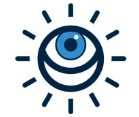
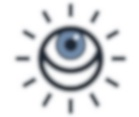
update button styling to be eyeball

diff --git a/src/components/GameStart.js b/src/components/GameStart.js
@@ -10,51 +10,33 @@ function GameStart(props) {
     textAlign: "center"
   }
   const colorPalette1Styles = {
-    width: 120,
-    height: 120,
-    display: "inline-block",
     backgroundColor: "#ccffff"
   }
   const colorPalette2Styles = {
-    width: 120,
-    height: 120,
-    display: "inline-block",
     backgroundColor: "#ffff66"
   }
   const colorPalette3Styles = {
-    width: 120,
-    height: 120,
-    display: "inline-block",
     backgroundColor: "#ff9966"
   }
   const colorPalette4Styles = {
-    width: 120,
-    height: 120,
-    display: "inline-block",
     backgroundColor: "#ff00ff"
   }
   const colorPalette5Styles = {
-    width: 120,
-    height: 120,
-    display: "inline-block",
     backgroundColor: "#0033cc"
   }
   const colorPalette6Styles = {
-    width: 120,
-    height: 120,
-    display: "inline-block",
     backgroundColor: "#66ff66"
   }
 
   return (
     <>
       <div style={divStyles}>
-        <div onClick={() => onInitGame1(1)} style={colorPalette1Styles}></div>
-        <div onClick={() => onInitGame1(2)} style={colorPalette2Styles}></div>
-        <div onClick={() => onInitGame1(3)} style={colorPalette3Styles}></div>
-        <div onClick={() => onInitGame1(4)} style={colorPalette4Styles}></div>
-        <div onClick={() => onInitGame1(5)} style={colorPalette5Styles}></div>
-        <div onClick={() => onInitGame1(6)} style={colorPalette6Styles}></div>
+        <div id="palette" onClick={() => onInitGame1(1)} style={colorPalette1Styles}></div>
+        <div id="palette" onClick={() => onInitGame1(2)} style={colorPalette2Styles}></div>
+        <div id="palette" onClick={() => onInitGame1(3)} style={colorPalette3Styles}></div>
+        <div id="palette" onClick={() => onInitGame1(4)} style={colorPalette4Styles}></div>
+        <div id="palette" onClick={() => onInitGame1(5)} style={colorPalette5Styles}></div>
+        <div id="palette" onClick={() => onInitGame1(6)} style={colorPalette6Styles}></div>
       </div>
     </>
   );

diff --git a/src/components/AboutMe.js b/src/components/AboutMe.js
@@ -7,10 +7,16 @@ import { motion } from "framer-motion";
 
 function AboutMe() {
   const buttonStyles = {
-    height: 80,
+    height: 70,
     width: 80,
-    borderRadius: "50%",
     margin: 10
+  }
+
+  const buttonText = {
+    fontWeight: "bold",
+    fontSize: 16,
+    textAlign: "center",
+    color: "black"
   }
 
   const [showMyInfo, setShowMyInfo] = useState(false);
@@ -40,7 +46,7 @@ function AboutMe() {
         animate={{opacity: 1}}
         exit={{opacity: 0}}>
         <Header/>
-        <button onClick={showPhotos} style={buttonStyles}>my photos</button>
+        <button onClick={showPhotos} style={buttonStyles}><span style={buttonText}>photos</span></button>
         <MyInfo/>
         <AboutPhoto/>
       </motion.div>
@@ -52,7 +58,7 @@ function AboutMe() {
         animate={{opacity: 1}}
         exit={{opacity: 0}}>
         <Header/>
-        <button onClick={showMe} style={buttonStyles}>me</button>
+        <button onClick={showMe} style={buttonStyles}><span style={buttonText}>me</span></button>
         <PhotoInfo/>
         <AboutPhoto/>
       </motion.div>
@@ -64,8 +70,8 @@ function AboutMe() {
         animate={{ opacity: 1, scale: 1 }}
         transition={{ duration: 0.5 }}>
         <Header/>
-        <button onClick={showMe} style={buttonStyles}>me</button>
-        <button onClick={showPhotos} style={buttonStyles}>my photos</button>
+        <button onClick={showMe} style={buttonStyles}><span style={buttonText}>me</span></button>
+        <button onClick={showPhotos} style={buttonStyles}><span style={buttonText}>photos</span></button>
         <AboutPhoto/>
       </motion.div>
     );

diff --git a/src/index.css b/src/index.css
@@ -14,6 +14,21 @@ code {
     monospace;
 }
 
+button {
+  cursor: pointer;
+  background: url("./img/icon.jpg");
+  background-repeat: no-repeat;
+  background-size: contain;
+  border: none;
+  transition: all 0.2s ease-in-out;
+  opacity: 0.8;
+}
+
+button:hover {
+  opacity: 0.7;
+  transform: scale(1.1);
+}
+
 .grid-container {
   display: grid;
   grid-template-columns: 1fr 2fr;
@@ -39,6 +54,7 @@ code {
   border-radius: 50%;
   color: white;
   font-weight: bold;
+  font-size: larger;
 }
 
 #contact-links:hover {
@@ -54,6 +70,22 @@ a {
   color: darkgray;
 }
 
+#hover:hover {
+  transform: scale(1.1);
+}
+
+#palette {
+  width: 120px;
+  height: 120px;
+  display: inline-block;
+  transition: all 0.2s ease-in-out;
+  cursor: pointer;
+}
+
+#palette:hover {
+  transform: scale(1.1);
+}
+
 #eye-div {
   width: 20px;
   height: 20px;
@@ -63,7 +95,7 @@ a {
 }
 
 #eye-div:hover {
-  background:darkgreen;
+  background:lightpink;
   border: 2px solid black;
   box-shadow: 0 0 0 30px rgb(83, 224, 83), 
               0 0 0 60px rgb(83, 224, 83),
@@ -72,8 +104,4 @@ a {
               0 0 0 200px rgb(37, 214, 37),
               0 0 0 400px rgb(27, 165, 27), 
               0 0 0 450px rgb(63, 235, 63);
-}
-
-#selfie:hover {
-  border: 2px solid black;
 }

diff --git a/src/components/ZineControl.js b/src/components/ZineControl.js
@@ -6,11 +6,17 @@ import { motion } from "framer-motion";
 
 function ZineControl() {
   const buttonStyles = {
-    height: 80,
+    height: 70,
     width: 80,
-    borderRadius: 50,
     padding: 20,
     margin: 20
+  }
+
+  const buttonText = {
+    fontWeight: "bold",
+    fontSize: 16,
+    textAlign: "center",
+    color: "black"
   }
 
   return (
@@ -19,8 +25,8 @@ function ZineControl() {
       animate={{ opacity: 1, scale: 1 }}
       transition={{ duration: 0.5 }}>
       <Header/>
-      <Link to="/zine/video"><button style={buttonStyles}>video</button></Link>
-      <Link to="/zine/pages"><button style={buttonStyles}>pages</button></Link>
+      <Link to="/zine/video"><button style={buttonStyles}><span style={buttonText}>video</span></button></Link>
+      <Link to="/zine/pages"><button style={buttonStyles}><span style={buttonText}>pages</span></button></Link>
       <br/><br/>
       <Routes>
         <Route path="/video" element={<ZineVideo/>}/>

diff --git a/src/components/AboutPhoto.js b/src/components/AboutPhoto.js
@@ -16,7 +16,9 @@ function AboutPhoto() {
   const selfieStyles = {
     width: 270,
     height: 280,
-    borderRadius: "50%"
+    borderRadius: "50%",
+    overflow: "hidden",
+    transition: "transform 0.25s"
   }
 
   return (
@@ -24,7 +26,7 @@ function AboutPhoto() {
       <div id="eye-div" style={eyeShapeStyles}>
           <br/><br/><br/><br/><br/><br/><br/>
           <div style={aboutDivStyles}>
-            <img id="selfie" style={selfieStyles} src={Selfie} alt="selfie"/>
+            <img id="hover" style={selfieStyles} src={Selfie} alt="selfie"/>
           </div>
       </div>
     </>

diff --git a/src/components/Home.js b/src/components/Home.js
@@ -6,8 +6,10 @@ function Home() {
   const photoStyles = {
     height: 680,
     width: 680,
+    overflow: "hidden",
     borderRadius: "50%",
-    margin: 10
+    margin: 10,
+    transition: "transform 0.25s"
   }
   
   const divStyles = {
@@ -22,7 +24,7 @@ function Home() {
         borderRadius: ["20%", "20%", "50%", "50%", "20%"],
       }}>
       <div style={divStyles}>
-        <Link to="/browse"><img style={photoStyles} src={Logo} alt=""/></Link>
+        <Link to="/browse"><img id="hover" style={photoStyles} src={Logo} alt=""/></Link>
       </div>
     </motion.div>
   );
